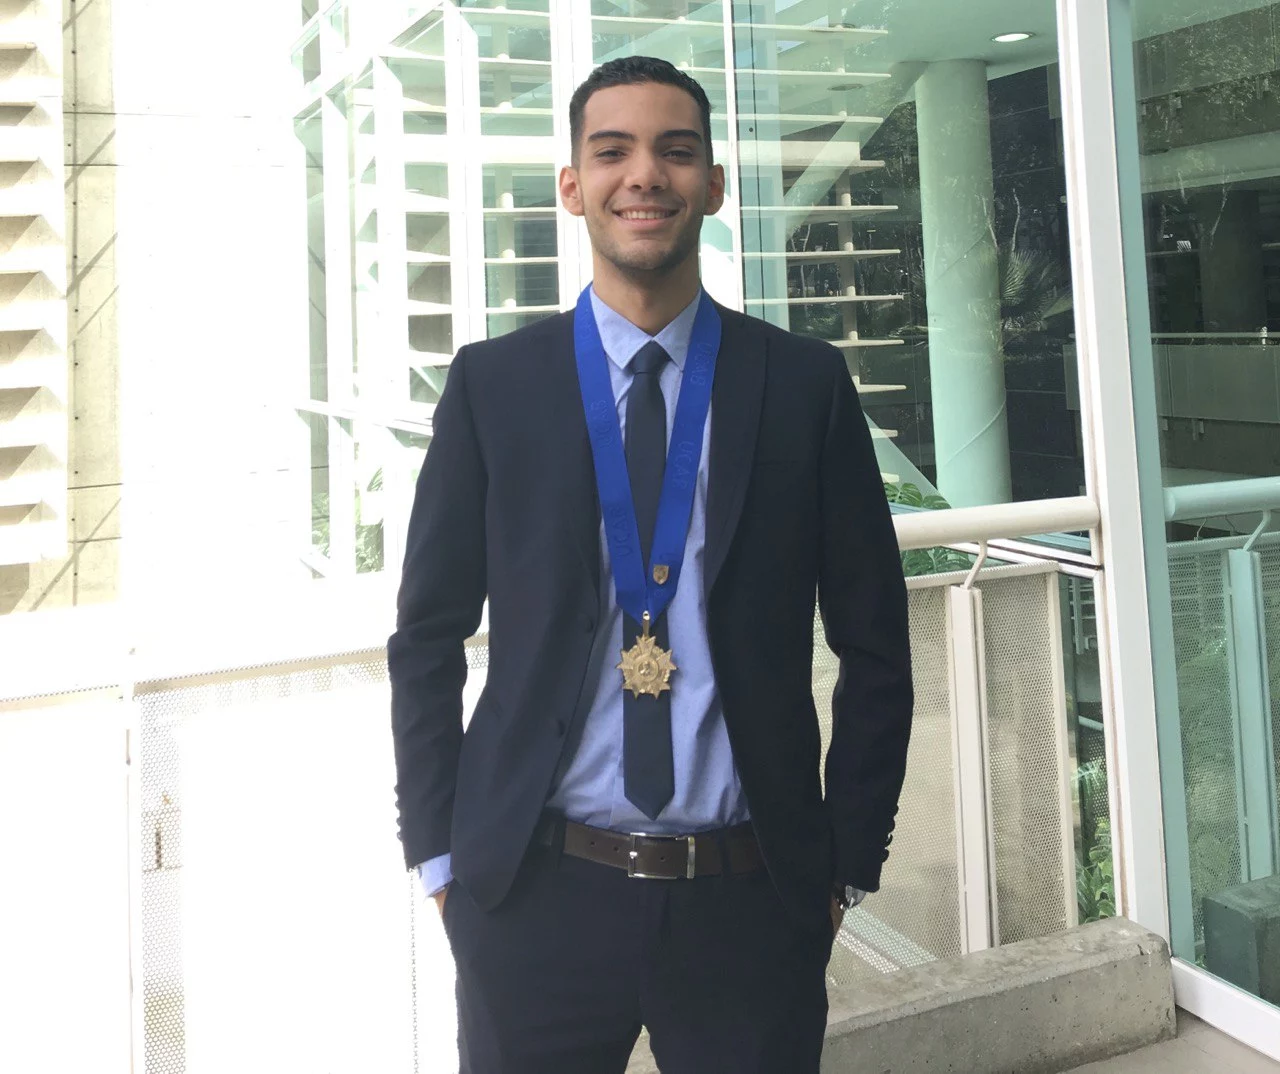
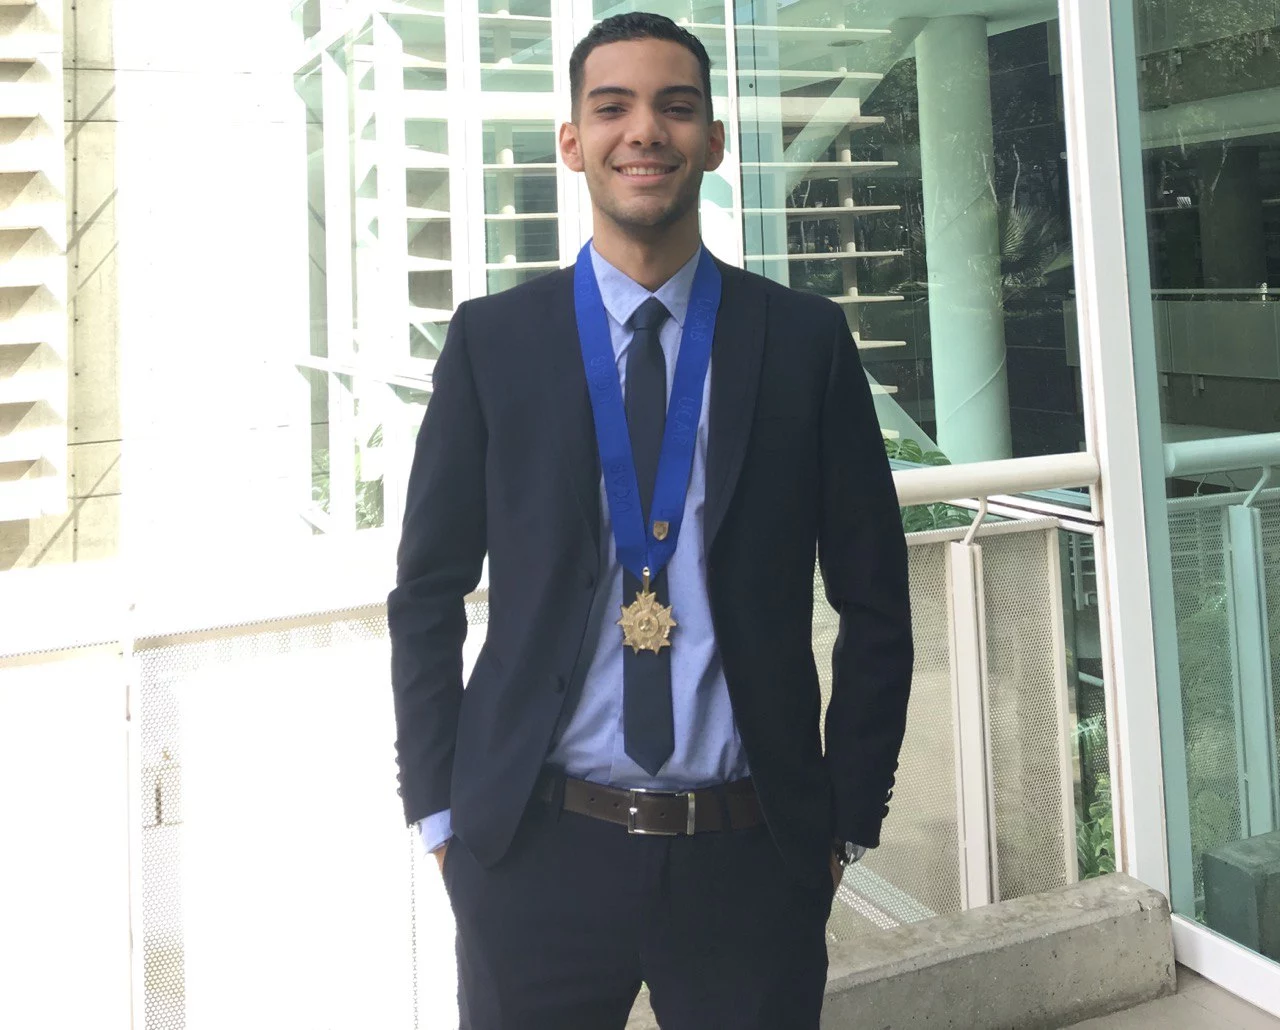
fix: carousel foto display

diff --git a/src/components/About.jsx b/src/components/About.jsx
@@ -3,12 +3,9 @@ import React, { useState } from "react";
 import { Wrapper, Timeline, Carousel } from "../components";
 import { layout, typography, spacing } from "../styles/style";
 import { about, aboutInfo } from "../constants";
-import { simonHero, about_01, about_02, about_03 } from "../assets";
 
 const About = () => {
   const [startIndex, setStartIndex] = useState(0);
-  const photoArr = [about_01, about_02, about_03];
-
 
   return (
     <section
@@ -22,7 +19,7 @@ const About = () => {
         <div className="flex flex-col md:flex-row md:justify-between md:gap-10">
           {/* text-container */}
           <div className="flex-1 h-56 sm:h-64 xl:h-80 2xl:h-96">
-            <Carousel info={aboutInfo} startIndex={startIndex} setStartIndex={setStartIndex}/>
+            <Carousel info={aboutInfo} startIndex={startIndex} setStartIndex={setStartIndex} style={``}/>
           </div>
 
           {/* image-container */}

diff --git a/src/components/Carousel.jsx b/src/components/Carousel.jsx
@@ -5,7 +5,7 @@ const Carousel = ({info, startIndex, setStartIndex, style}) => {
   return (
     <div className={`${style} relative`}>
       {/* <!-- Carousel wrapper --> */}
-      <div className="relative h-64 overflow-hidden rounded-lg">
+      <div className="relative h-[15.5rem] overflow-hidden rounded-lg">
         {info.map((item, index) => {
           return (
             <div
@@ -15,7 +15,7 @@ const Carousel = ({info, startIndex, setStartIndex, style}) => {
                 transform: `translateX(${100 * (index - startIndex)}%)`,
               }}
             >
-              <img src={item.image} alt="..." />
+              <img src={item.image} alt="..." className="object-cover"/>
             </div>
           );
         })}
